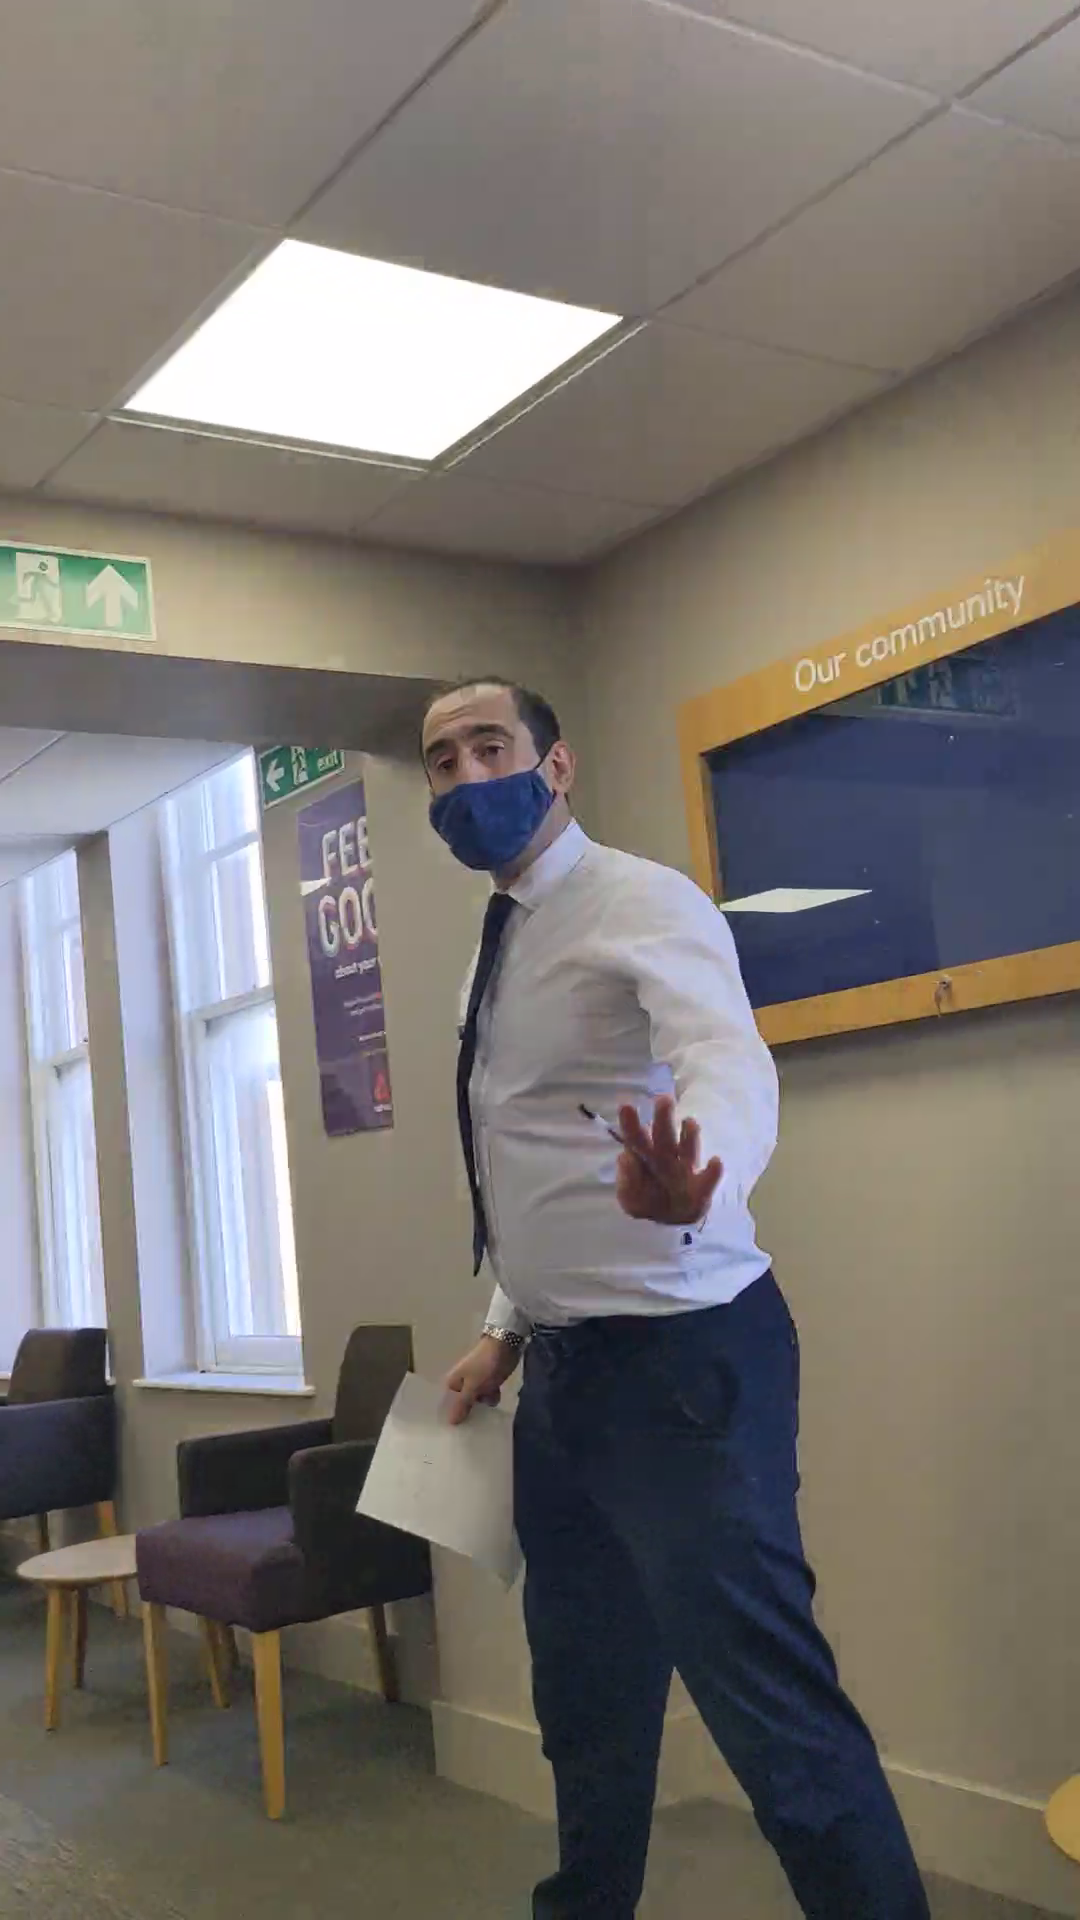
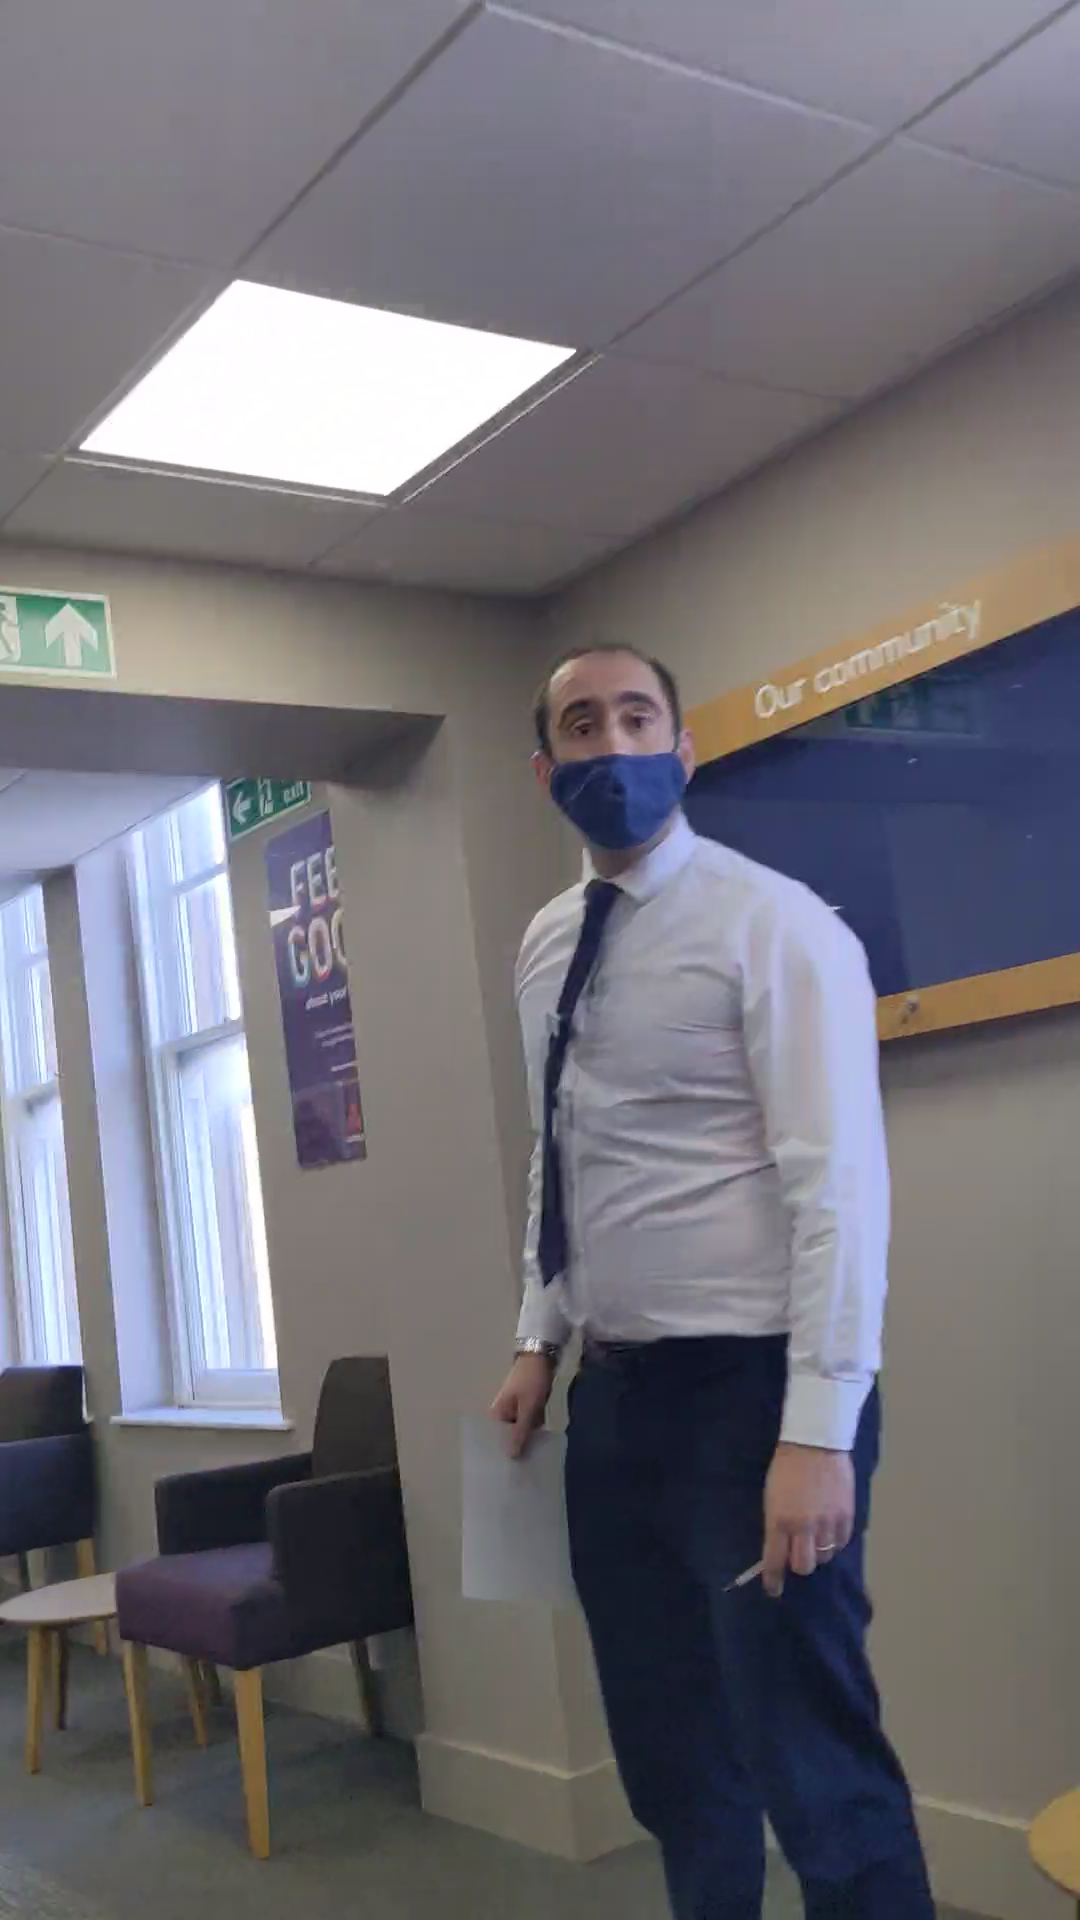
latest

diff --git a/README.md b/README.md
@@ -60,12 +60,12 @@ Art pulled out his phone and started recording.
 > take my money out? Cuz this guy... if you hear that. I have not been
 > aggressive. I've done nothing. I just want my money. You gonna help me?
 >
-> **[00:12] Staff Member to Art** Unintelligible.
+> **[00:12] Fake Rude Bwoy to Art** [Unintelligible].
 >
 > **[00:15] Art to Staff** So the manager is [half laugh] not letting me take
 > the money out and you guys agree with that?
 >
-> **[00:17] Same Staff Member to Art** Are you filming me?
+> **[00:17] Fake Rude Bwoy to Art** Are you filming me?
 >
 > **[00:19] Art to Staff Member** Of course I am.
 >
@@ -73,9 +73,13 @@ Art pulled out his phone and started recording.
 
 **Stills:**
 
-| [00:01] The Manager | [00:16] The Fake Rude Bwoy |
-| :---: | :---: |
-| ![The Manager](manager.png) | ![Fake Rude Bwoy](fake-rude-bwoy.png) |
+| [00:01] The Manager | [00:02] Fleeing | [00:02] Gone |
+| :---: | :---: | :---: |
+| ![The Manager](manager.png) | ![Fleeing](manager-fleeing-1.png) | ![Gone](manager-fleeing-2.png) |
+
+| [00:16] The Fake Rude Bwoy |
+| :---: |
+| ![Fake Rude Bwoy](fake-rude-bwoy.png) |
 
 **Tone:** Note the switch. The first line is spoken with anger — addressed to
 the manager, who deserves it. From [00:07] the anger is gone. Art is speaking to